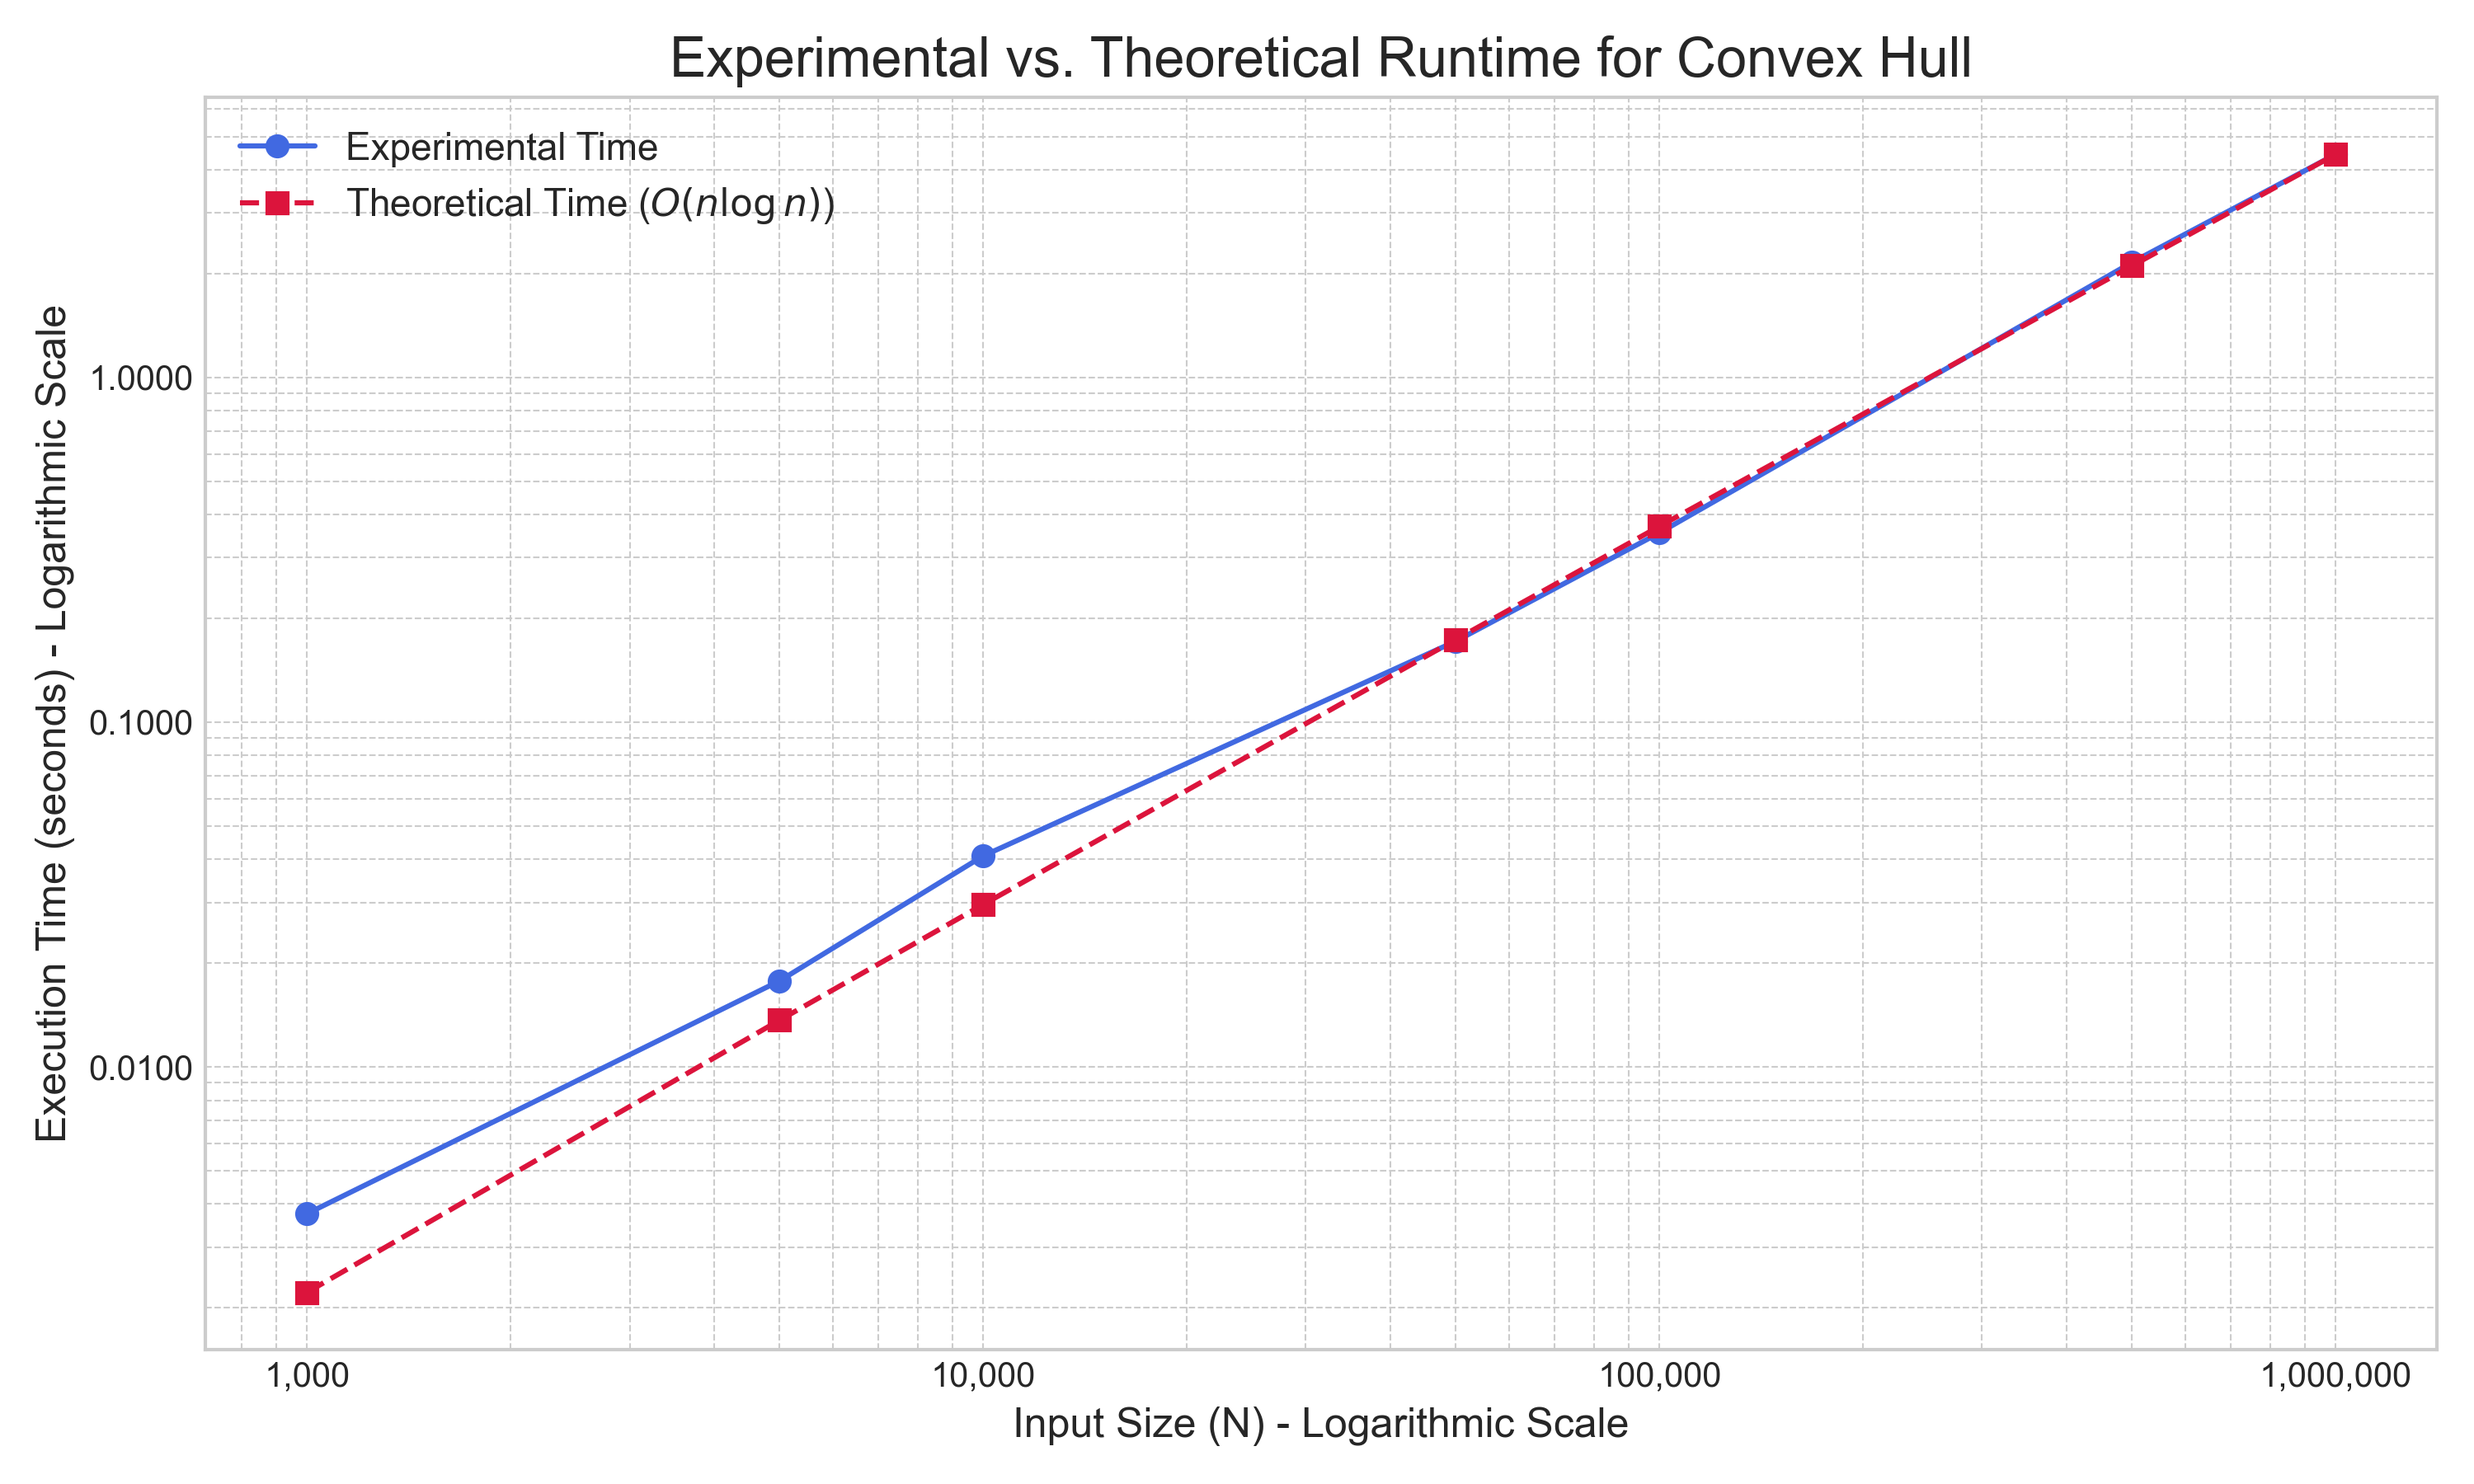
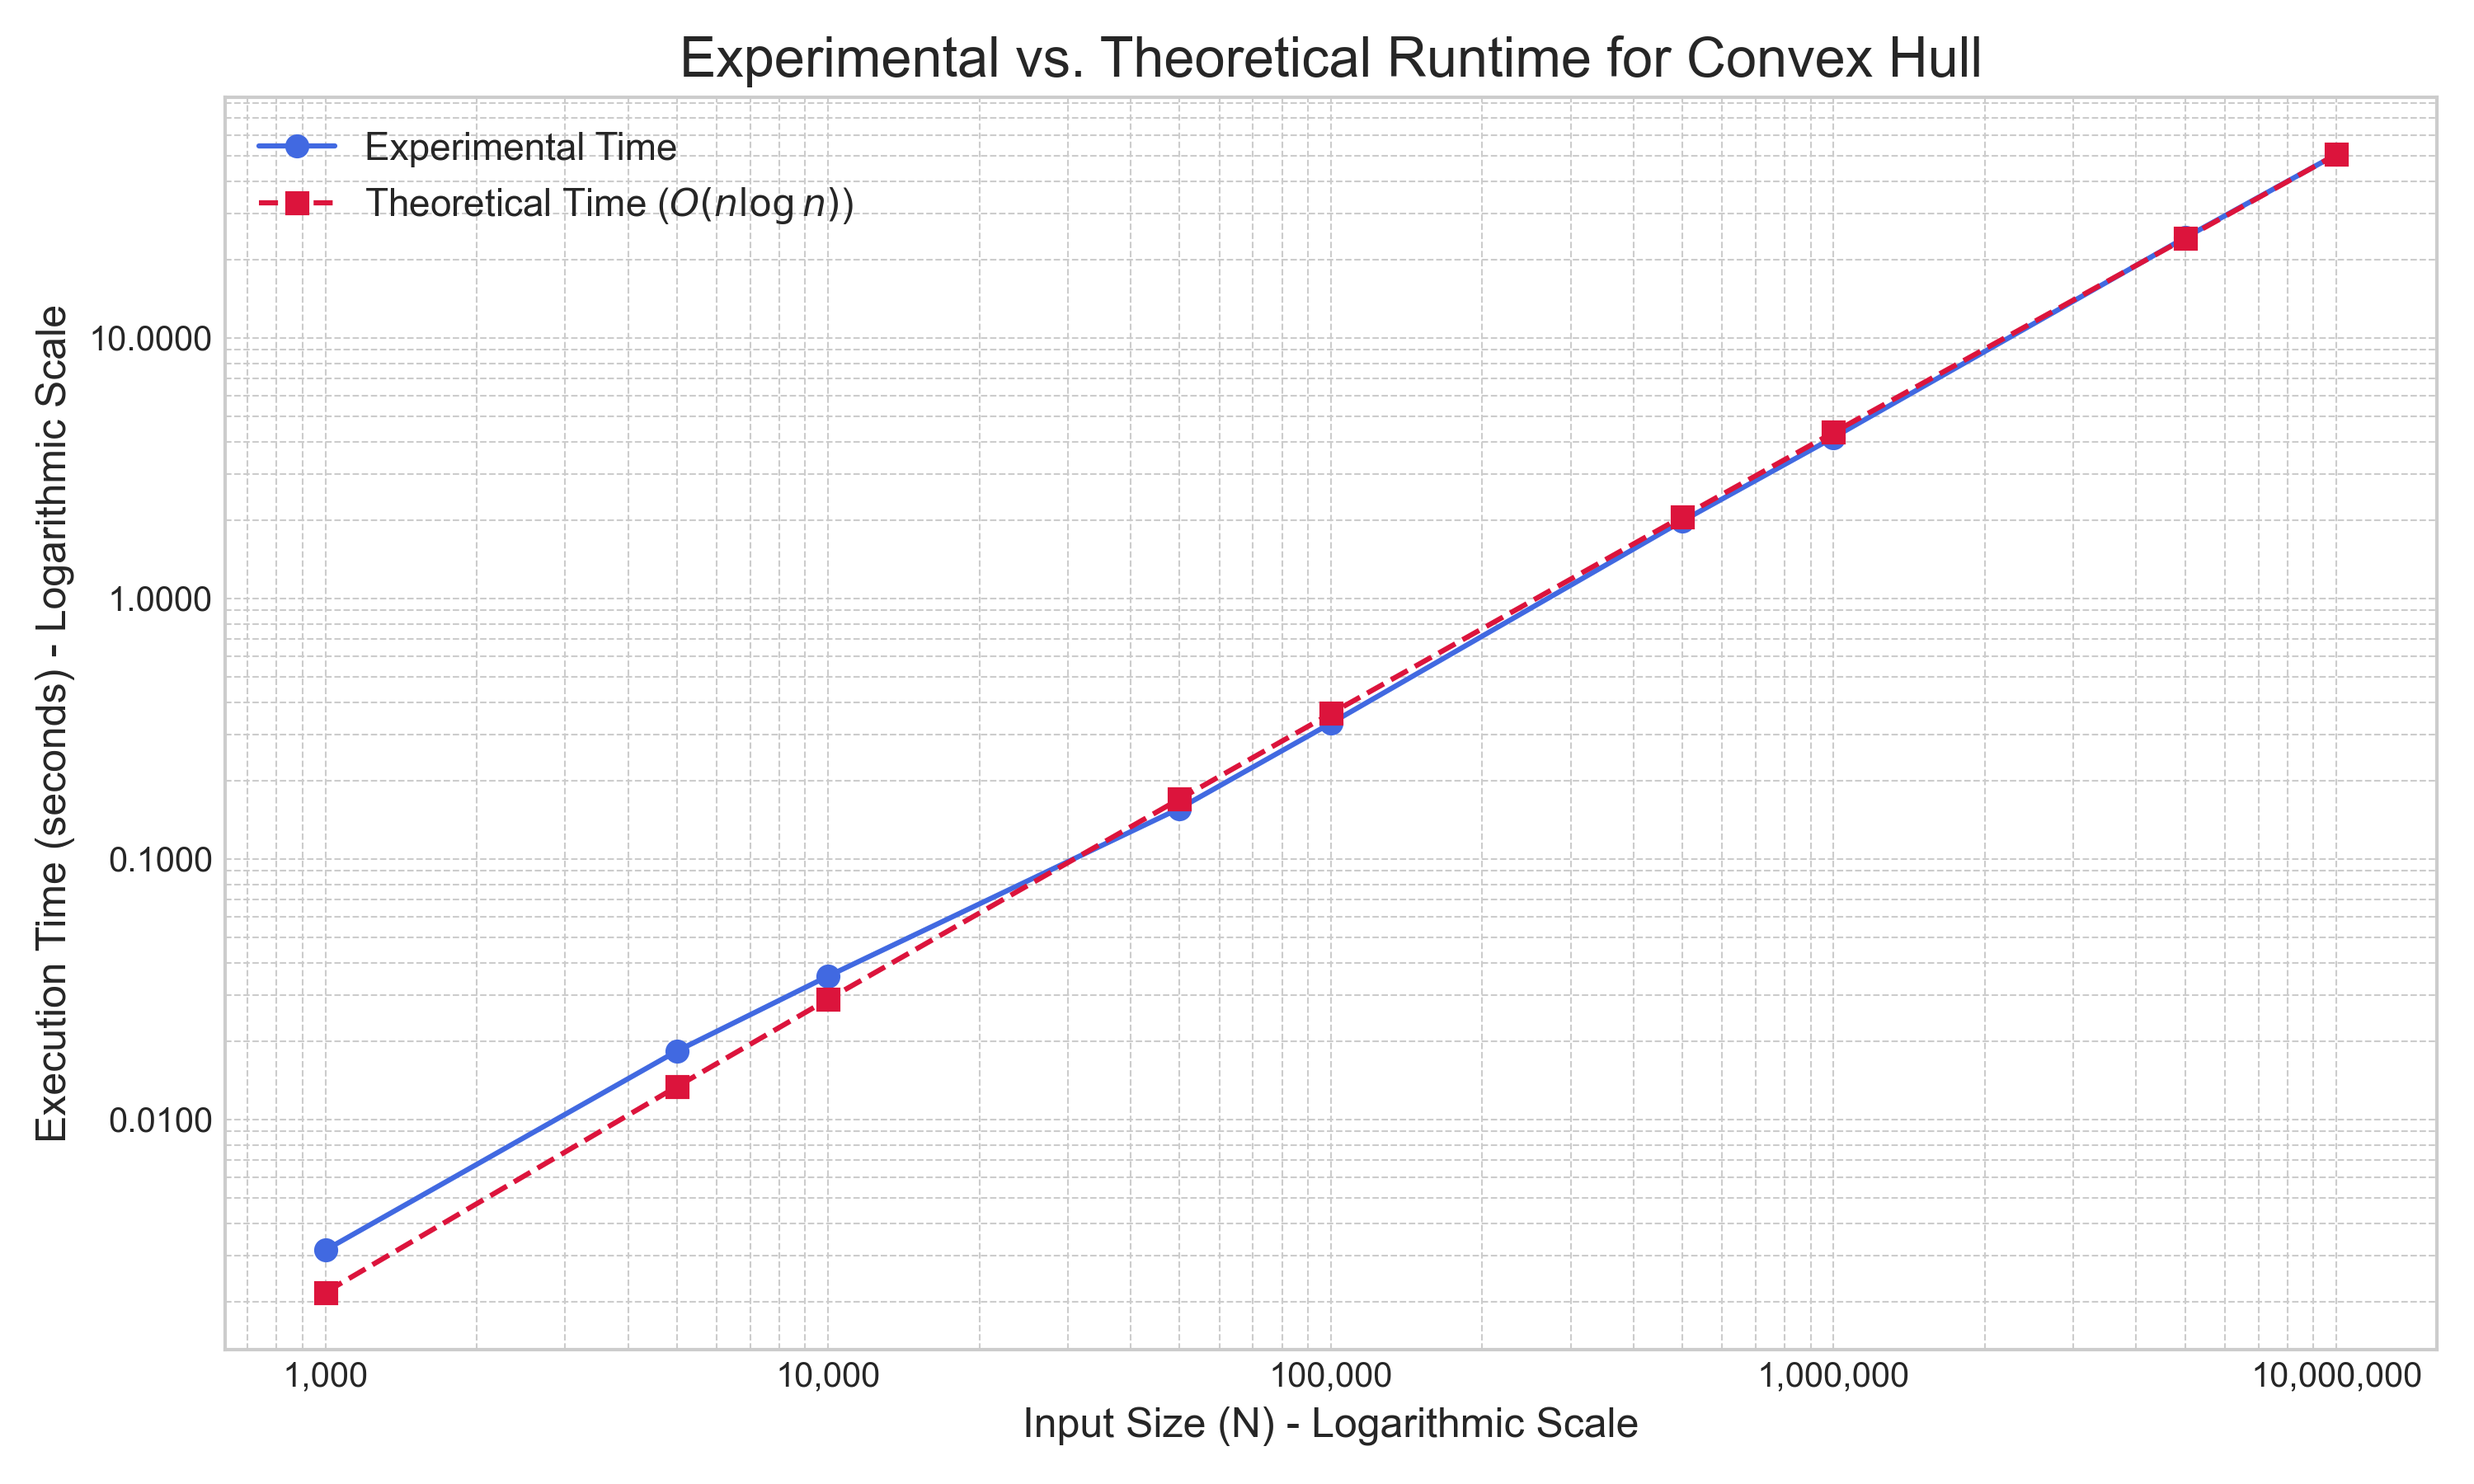
updated readme.md and added more N values

diff --git a/graph.py b/graph.py
@@ -2,19 +2,18 @@ import matplotlib.pyplot as plt
 import numpy as np
 from matplotlib.ticker import FuncFormatter
 
-# Updated data from the convex hull analysis
+# Points
 n_values = np.array([
-    1000, 5000, 10000, 50000, 100000, 500000, 1000000
+    1000, 5000, 10000, 50000, 100000, 500000, 1000000, 5000000, 10000000
 ], dtype=np.float64)
 
 experimental_times = np.array([
-    0.003750, 0.017765, 0.040920, 0.171712, 0.353978, 2.156402, 4.435071
+    0.003153, 0.018297, 0.035509, 0.156415, 0.331907, 1.983047, 4.152013, 24.257462, 50.650553
 ])
 
 normalized_theoretical_times = np.array([
-    0.002218, 0.013661, 0.029571, 0.173623, 0.369687, 2.106517, 4.435071
+    0.002171, 0.013369, 0.028938, 0.169894, 0.361775, 2.061451, 4.340618, 24.094520, 50.650553
 ])
-
 
 # Plotting
 plt.style.use('seaborn-v0_8-whitegrid')
@@ -25,7 +24,6 @@ ax.plot(n_values, experimental_times, marker='o', linestyle='-',
         color='royalblue', label='Experimental Time')
 
 # Plot Normalized Theoretical Time
-# Updated the label to reflect the correct O(n log n) complexity
 ax.plot(n_values, normalized_theoretical_times, marker='s', linestyle='--',
         color='crimson', label=r'Theoretical Time ($O(n \log n)$)')
 

diff --git a/Project2.py b/Project2.py
@@ -159,7 +159,7 @@ def convex_hull(points):
 # Testing section to log times for different n (using random points)
 if __name__ == "__main__":
     random.seed(42)  # For reproducibility
-    for n in [1000, 5000, 10000, 50000, 100000, 500000, 1000000]:
+    for n in [1000, 5000, 10000, 50000, 100000, 500000, 1000000, 5000000, 10000000]:
         points = [(random.random() * 1000, random.random() * 1000) for _ in range(n)]
         start = time.time()
         hull = convex_hull(points)

diff --git a/README.md b/README.md
@@ -1,2 +1,16 @@
 # csci6212
-All projects and assignments for CSCI 6212 class - Design and Analysis of Algorithms
+### Project 2:
+
+Used Python 3.13
+Packages Used:
+- matplotlib
+
+### Project 2 - Time Complexity is Θ (N log N)
+
+### Project 2 Output via Code:
+
+![alt text](image.png)
+
+### Project 2 Graph Generated via Code:
+
+![alt text](convex_hull_complexity_analysis.png)
